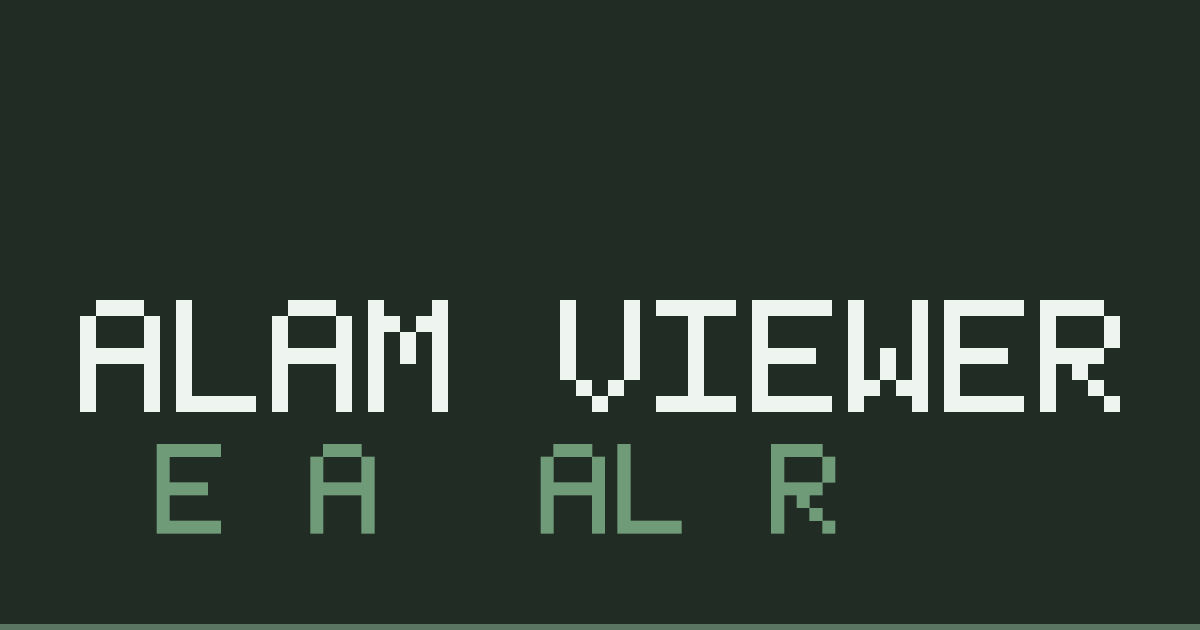
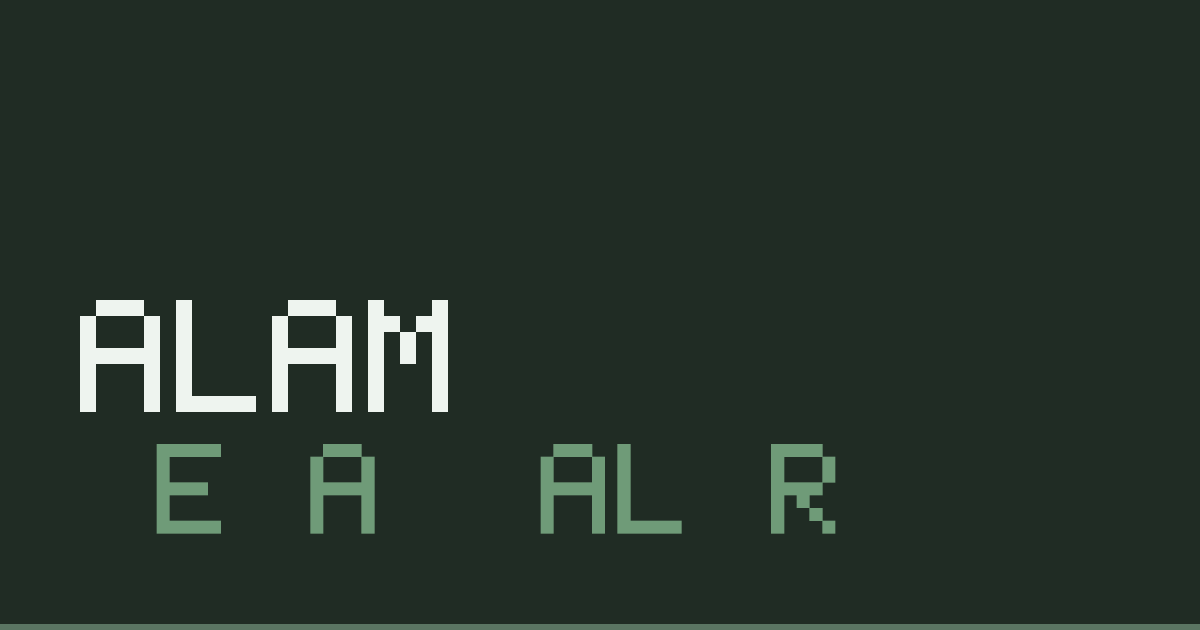
Satukan penamaan "Alam Viewer" dan "Alam Engine" menjadi "Alam"
Repo ini pernah punya folder engine/ terpisah sehingga muncul dua nama.
Folder itu sudah dihapus dan logikanya sekarang hidup sebagai JavaScript
di dalam upload.html, jadi "Alam Engine" hanya nama yang menunjuk ke
entitas yang tidak ada: footer dan loading spinner sempat mengIKLANKAN
sistem yang tidak ada lagi.

Gabungkan semuanya jadi satu nama. "Alam Engine" dihapus dari teks yang
terlihat pengguna, sementara "Alam Viewer" dipangkas jadi "Alam" di
metadata, brand, dan manifest PWA. Global window.AlamViewer menjadi
window.Alam, dan data engine.name diperbarui agar jalur baru yang di
upload ikut memakai nama baru.

og-image.png digambar ulang karena teksnya dilukis di dalam PNG, bukan
disimpan sebagai teks. Versi ?v= dinaikkan agar cache GitHub Pages
tidak menahan versi lama.

🤖 Generated with Codebuff

Changed region(s): [[0.4625, 0.4524, 0.9558, 0.6635]]

diff --git a/viewer.html b/viewer.html
@@ -4,7 +4,7 @@
 <head>
     <meta charset="UTF-8">
     <meta name="viewport" content="width=device-width, initial-scale=1">
-    <title>Alam Viewer — Nyasar Nyaman</title>
+    <title>Alam — Nyasar Nyaman</title>
     <meta name="description" content="Pemutaran jalur pendakian berbasis data GitHub alam.nyasarnyaman.my.id/">
     <meta name="theme-color" content="#5a7562">
     <meta name="color-scheme" content="light dark">
@@ -16,16 +16,16 @@
          dipakai dengan ?route=..., jadi URL-nya banyak varian dan
          canonical menunjuk ke salah satu akan menyesatkan. -->
     <meta property="og:type" content="website">
-    <meta property="og:site_name" content="Alam Viewer — Nyasar Nyaman">
+    <meta property="og:site_name" content="Alam — Nyasar Nyaman">
     <meta property="og:locale" content="id_ID">
-    <meta property="og:title" content="Alam Viewer — Nyasar Nyaman">
+    <meta property="og:title" content="Alam — Nyasar Nyaman">
     <meta property="og:description" content="Pemutaran jalur pendakian interaktif: peta, profil elevasi, dan waypoint.">
     <meta property="og:image" content="https://alam.nyasarnyaman.my.id/assets/img/og-image.png">
     <meta property="og:image:width" content="1200">
     <meta property="og:image:height" content="630">
-    <meta property="og:image:alt" content="Ilustrasi gunung dengan label Alam Viewer">
+    <meta property="og:image:alt" content="Ilustrasi gunung dengan label Alam">
     <meta name="twitter:card" content="summary_large_image">
-    <meta name="twitter:title" content="Alam Viewer — Nyasar Nyaman">
+    <meta name="twitter:title" content="Alam — Nyasar Nyaman">
     <meta name="twitter:description" content="Pemutaran jalur pendakian interaktif: peta, profil elevasi, dan waypoint.">
     <meta name="twitter:image" content="https://alam.nyasarnyaman.my.id/assets/img/og-image.png">
     <link rel="preconnect" href="https://fonts.googleapis.com">
@@ -33,7 +33,7 @@
     <link href="https://fonts.googleapis.com/css2?family=Noto+Sans:wght@300;400;500;600;700;800&display=swap" rel="stylesheet">
     <link rel="stylesheet" href="https://unpkg.com/leaflet@1.9.4/dist/leaflet.css">
     <link rel="stylesheet" href="https://cdnjs.cloudflare.com/ajax/libs/font-awesome/6.7.2/css/all.min.css">
-    <link rel="stylesheet" href="assets/css/style.css?v=8">
+    <link rel="stylesheet" href="assets/css/style.css?v=9">
 </head>
 
 <body>
@@ -211,9 +211,6 @@ CONTENT
         </main>
 
         <footer>
-            Powered by
-            <strong>Alam Engine</strong>
-            •
             Nyasar Nyaman
         </footer>
 
@@ -229,23 +226,23 @@ LIBRARY
 CONFIG
 =========================== -->
     <script>
-        window.AlamViewer = window.AlamViewer || {};
+        window.Alam = window.Alam || {};
     </script>
 
     <!-- ===========================
 APP
 =========================== -->
-    <script src="config.js?v=10"></script>
-    <script src="assets/js/utils.js?v=3"></script>
-    <script src="assets/js/loader.js?v=1"></script>
-    <script src="assets/js/map.js?v=1"></script>
-    <script src="assets/js/chart.js?v=5"></script><script src="assets/js/stats.js?v=8"></script>
-        <script src="assets/js/waypoint.js?v=5"></script>
-        <script src="assets/js/export-file.js?v=1"></script>
-        <script src="assets/js/download.js?v=1"></script>
-    <script src="assets/js/theme.js?v=2"></script>
-    <script src="assets/js/app.js?v=6"></script>
-    <script src="assets/js/embed-sync.js?v=1"></script>
+    <script src="config.js?v=11"></script>
+    <script src="assets/js/utils.js?v=4"></script>
+    <script src="assets/js/loader.js?v=2"></script>
+    <script src="assets/js/map.js?v=2"></script>
+    <script src="assets/js/chart.js?v=6"></script><script src="assets/js/stats.js?v=9"></script>
+        <script src="assets/js/waypoint.js?v=6"></script>
+        <script src="assets/js/export-file.js?v=2"></script>
+        <script src="assets/js/download.js?v=2"></script>
+    <script src="assets/js/theme.js?v=3"></script>
+    <script src="assets/js/app.js?v=7"></script>
+    <script src="assets/js/embed-sync.js?v=2"></script>
 
 </body>
 

diff --git a/index.html b/index.html
@@ -4,7 +4,7 @@
 <head>
 <meta charset="UTF-8">
 <meta name="viewport" content="width=device-width, initial-scale=1">
-<title>Alam Viewer — Nyasar Nyaman | Peta Jalur Pendakian</title>
+<title>Alam — Nyasar Nyaman | Peta Jalur Pendakian</title>
 <meta name="description" content="Peta interaktif jalur pendakian Indonesia: peta Leaflet, profil elevasi, waypoint, dan unduh GPX/KML. Data dibaca langsung dari repository, tanpa install.">
 <meta name="theme-color" content="#2f4638">
 <meta name="color-scheme" content="light dark">
@@ -18,24 +18,24 @@
 <!-- Open Graph / Twitter Card: preview saat link dibagikan di WhatsApp,
      Telegram, X, Facebook, dan Discord. -->
 <meta property="og:type" content="website">
-<meta property="og:site_name" content="Alam Viewer — Nyasar Nyaman">
+<meta property="og:site_name" content="Alam — Nyasar Nyaman">
 <meta property="og:locale" content="id_ID">
 <meta property="og:url" content="https://alam.nyasarnyaman.my.id/">
-<meta property="og:title" content="Alam Viewer — Nyasar Nyaman | Peta Jalur Pendakian">
+<meta property="og:title" content="Alam — Nyasar Nyaman | Peta Jalur Pendakian">
 <meta property="og:description" content="Peta interaktif jalur pendakian Indonesia: peta Leaflet, profil elevasi, waypoint, dan unduh GPX/KML. Data dibaca langsung dari repository, tanpa install.">
 <meta property="og:image" content="https://alam.nyasarnyaman.my.id/assets/img/og-image.png">
 <meta property="og:image:width" content="1200">
 <meta property="og:image:height" content="630">
-<meta property="og:image:alt" content="Ilustrasi gunung dengan label Alam Viewer">
+<meta property="og:image:alt" content="Ilustrasi gunung dengan label Alam">
 <meta name="twitter:card" content="summary_large_image">
-<meta name="twitter:title" content="Alam Viewer — Nyasar Nyaman | Peta Jalur Pendakian">
+<meta name="twitter:title" content="Alam — Nyasar Nyaman | Peta Jalur Pendakian">
 <meta name="twitter:description" content="Peta interaktif jalur pendakian Indonesia: peta Leaflet, profil elevasi, waypoint, dan unduh GPX/KML.">
 <meta name="twitter:image" content="https://alam.nyasarnyaman.my.id/assets/img/og-image.png">
 <link rel="preconnect" href="https://fonts.googleapis.com">
 <link rel="preconnect" href="https://fonts.gstatic.com" crossorigin>
 <link href="https://fonts.googleapis.com/css2?family=Fraunces:opsz,wght@9..144,600;9..144,700&family=Noto+Sans:wght@400;500;600;700&display=swap" rel="stylesheet">
 <link rel="stylesheet" href="https://unpkg.com/leaflet@1.9.4/dist/leaflet.css">
-<link rel="stylesheet" href="assets/css/landing.css?v=9">
+<link rel="stylesheet" href="assets/css/landing.css?v=10">
 </head>
 
 <body>
@@ -58,7 +58,7 @@ HEADER
       </span>
       <span class="brand-text">
         <span class="brand-name">Nyasar Nyaman</span>
-        <span class="brand-tag">Alam Viewer</span>
+        <span class="brand-tag">Alam</span>
       </span>
     </a>
 
@@ -293,7 +293,7 @@ FOOTER
       <p class="footer-sub">Peta © <a href="https://www.openstreetmap.org/copyright">OpenStreetMap</a> · © OpenTopoMap · © Esri</p>
     </div>
   </div>
-  <p class="footer-copy">© 2026 Nyasar Nyaman · Alam Viewer</p>
+  <p class="footer-copy">© 2026 Nyasar Nyaman · Alam</p>
 </footer>
 
 <!-- ===========================
@@ -304,8 +304,8 @@ LIBRARY
 <!-- ===========================
 APP
 ============================ -->
-<script src="config.js?v=10"></script>
-<script src="assets/js/landing.js?v=10"></script>
+<script src="config.js?v=11"></script>
+<script src="assets/js/landing.js?v=11"></script>
 </body>
 
 </html>

diff --git a/upload.html b/upload.html
@@ -39,7 +39,7 @@ content="website">
 
 <meta
 property="og:site_name"
-content="Alam Viewer — Nyasar Nyaman">
+content="Alam — Nyasar Nyaman">
 
 <meta
 property="og:locale"
@@ -51,7 +51,7 @@ content="Uploader Jalur — Nyasar Nyaman">
 
 <meta
 property="og:description"
-content="Upload GPX ke data/ Alam Viewer. Diproses 100% di browser, publish langsung ke GitHub.">
+content="Upload GPX ke data/ Alam. Diproses 100% di browser, publish langsung ke GitHub.">
 
 <meta
 property="og:image"
@@ -67,7 +67,7 @@ content="630">
 
 <meta
 property="og:image:alt"
-content="Ilustrasi gunung dengan label Alam Viewer">
+content="Ilustrasi gunung dengan label Alam">
 
 <meta
 name="twitter:card"
@@ -94,7 +94,7 @@ href="https://cdnjs.cloudflare.com/ajax/libs/font-awesome/6.7.2/css/all.min.css"
 
 /* ==========================================================
    Alam Uploader
-   Tema mengikuti Alam Viewer (style.css)
+   Tema mengikuti viewer (style.css)
    ========================================================== */
 
 :root {
@@ -1007,7 +1007,7 @@ html {
 
     <footer>
 
-        Powered by <strong>Alam Engine</strong> • Nyasar Nyaman
+        Nyasar Nyaman
 
     </footer>
 
@@ -1022,7 +1022,7 @@ html {
 <script src="https://cdn.jsdelivr.net/npm/@turf/turf@7.2.0/turf.min.js"></script>
 
 <!-- ==============================
-     LOGIKA MURNI (replika Alam Engine)
+     LOGIKA MURNI
      Tidak menyentuh DOM — bisa dites terpisah.
 ============================== -->
 
@@ -1870,7 +1870,7 @@ function buildGeojson(meta, stats, coords, waypoints) {
 
             route: meta.route,
 
-            engine: "Alam Engine",
+            engine: "Alam",
 
             distance_km: stats.distance_km,
 
@@ -1914,7 +1914,7 @@ function buildManifestSkeleton(slug, meta, stats, legs) {
 
         engine: {
 
-            name: "Alam Engine",
+            name: "Alam",
 
             version: UPLOADER.ENGINE_VERSION
 

diff --git a/assets/js/export-file.js b/assets/js/export-file.js
@@ -1,5 +1,5 @@
 /* ==========================================================
-   Alam Viewer — Export File (GPX & KML)
+   Alam — Export File (GPX & KML)
  ==========================================================
    Mengubah track.geojson menjadi file GPX 1.1 dan KML 2.2
    langsung di browser. Tidak butuh server, tidak butuh layanan eksternal.
@@ -92,7 +92,7 @@
         parts.push('<?xml version="1.0" encoding="UTF-8"?>');
 
         parts.push(
-            '<gpx version="1.1" creator="Alam Viewer (akhyarulf/alam)"' +
+            '<gpx version="1.1" creator="Alam (akhyarulf/alam)"' +
             ' xmlns="http://www.topografix.com/GPX/1/1"' +
             ' xmlns:xsi="http://www.w3.org/2001/XMLSchema-instance"' +
             ' xsi:schemaLocation="http://www.topografix.com/GPX/1/1' +

diff --git a/config.js b/config.js
@@ -1,7 +1,7 @@
 /*
 
 =========================================
- Alam Viewer
+ Alam
  Config
 
  githubRepo now points to: akhyarulf/alam
@@ -10,7 +10,7 @@
 
 */
 
-window.AlamViewer = window.AlamViewer || {};
+window.Alam = window.Alam || {};
 
 const CONFIG = {
 
@@ -80,7 +80,7 @@ const CONFIG = {
 
     Priority:
 
-    1 window.AlamViewer.route
+    1 window.Alam.route
     2 ?route=
     3 defaultRoute
 
@@ -94,15 +94,15 @@ const CONFIG = {
 
         if (
 
-            window.AlamViewer
+            window.Alam
 
             &&
 
-            window.AlamViewer.route
+            window.Alam.route
 
         ) {
 
-            return window.AlamViewer.route;
+            return window.Alam.route;
 
         }
 

diff --git a/assets/js/loader.js b/assets/js/loader.js
@@ -1,5 +1,5 @@
 /* ==========================================================
-   Alam Viewer v1.0
+   Alam v1.0
    loader.js
 
    Loading Screen Controller
@@ -35,7 +35,7 @@ const Loader = {
 
     },
 
-    show(text = "Loading Route...", subtitle = "Mengambil data dari Alam Engine") {
+    show(text = "Loading Route...", subtitle = "Mengambil data dari Alam") {
 
         if (!this.initialized) {
 
@@ -146,7 +146,7 @@ const Loader = {
             title.textContent = "Loading Route...";
 
         if (desc)
-            desc.textContent = "Mengambil data dari Alam Engine";
+            desc.textContent = "Mengambil data dari Alam";
 
         this.element.style.opacity = "1";
 

diff --git a/scripts/generate-icons.js b/scripts/generate-icons.js
@@ -1,5 +1,5 @@
 /* ==========================================
- Alam Viewer — Icon Generator
+ Alam — Icon Generator
  ==========================================
  Membuat PNG raster dari desain yang sama dengan
  assets/img/favicon.svg:
@@ -257,7 +257,7 @@ function makeOG() {
 
     /* judul */
     const px = 16 * SS;
-    drawText(cv, "ALAM VIEWER", 80 * SS, 300 * SS, px, C.snow);
+    drawText(cv, "ALAM", 80 * SS, 300 * SS, px, C.snow);
     drawText(cv, "PETA JALUR", 80 * SS, 300 * SS + 9 * px, px * 0.8, C.mtn);
     fillRect(cv, 80 * SS, 300 * SS + 22 * px, 80 * SS + 300 * SS, 300 * SS + 22 * px + 4 * SS, C.sun);
 

diff --git a/404.html b/404.html
@@ -4,8 +4,8 @@
 <head>
 <meta charset="UTF-8">
 <meta name="viewport" content="width=device-width, initial-scale=1">
-<title>Halaman tidak ditemukan — Alam Viewer</title>
-<meta name="description" content="Halaman yang kamu cari tidak ada di Alam Viewer.">
+<title>Halaman tidak ditemukan — Alam</title>
+<meta name="description" content="Halaman yang kamu cari tidak ada di Alam.">
 <meta name="robots" content="noindex, follow">
 <meta name="theme-color" content="#2f4638">
 <meta name="color-scheme" content="light dark">

diff --git a/assets/js/stats.js b/assets/js/stats.js
@@ -1,5 +1,5 @@
 /* ==========================================================
-   Alam Viewer v1.0
+   Alam v1.0
    stats.js
 
    Statistics & Information Module
@@ -360,7 +360,7 @@ const Stats = {
 
             this.track.name ||
 
-            "Alam Viewer";
+            "Alam";
 
         const description = document.querySelector(
 

diff --git a/assets/js/landing.js b/assets/js/landing.js
@@ -1,5 +1,5 @@
 /* ==========================================
- Alam Viewer — Landing Page
+ Alam — Landing Page
  ==========================================
  Data   : data/routes.json (index, satu request untuk semua jalur)
             + data/<slug>/track.geojson (hanya saat kartu dilihat)

diff --git a/scripts/build-routes-index.js b/scripts/build-routes-index.js
@@ -1,5 +1,5 @@
 /* ==========================================
- Alam Viewer — Routes Index Builder
+ Alam — Routes Index Builder
  ==========================================
  Membaca setiap data/<slug>/manifest.json lalu menulis satu
  ringkasan ke data/routes.json supaya landing page cukup

diff --git a/assets/css/landing.css b/assets/css/landing.css
@@ -1,5 +1,5 @@
 /* ==========================================
- Alam Viewer — Landing page stylesheet
+ Alam — Landing page stylesheet
  Standalone (tidak bergantung style.css viewer)
  Tema: hutan alpine — lumut hijau, batu, amber
  ========================================== */
